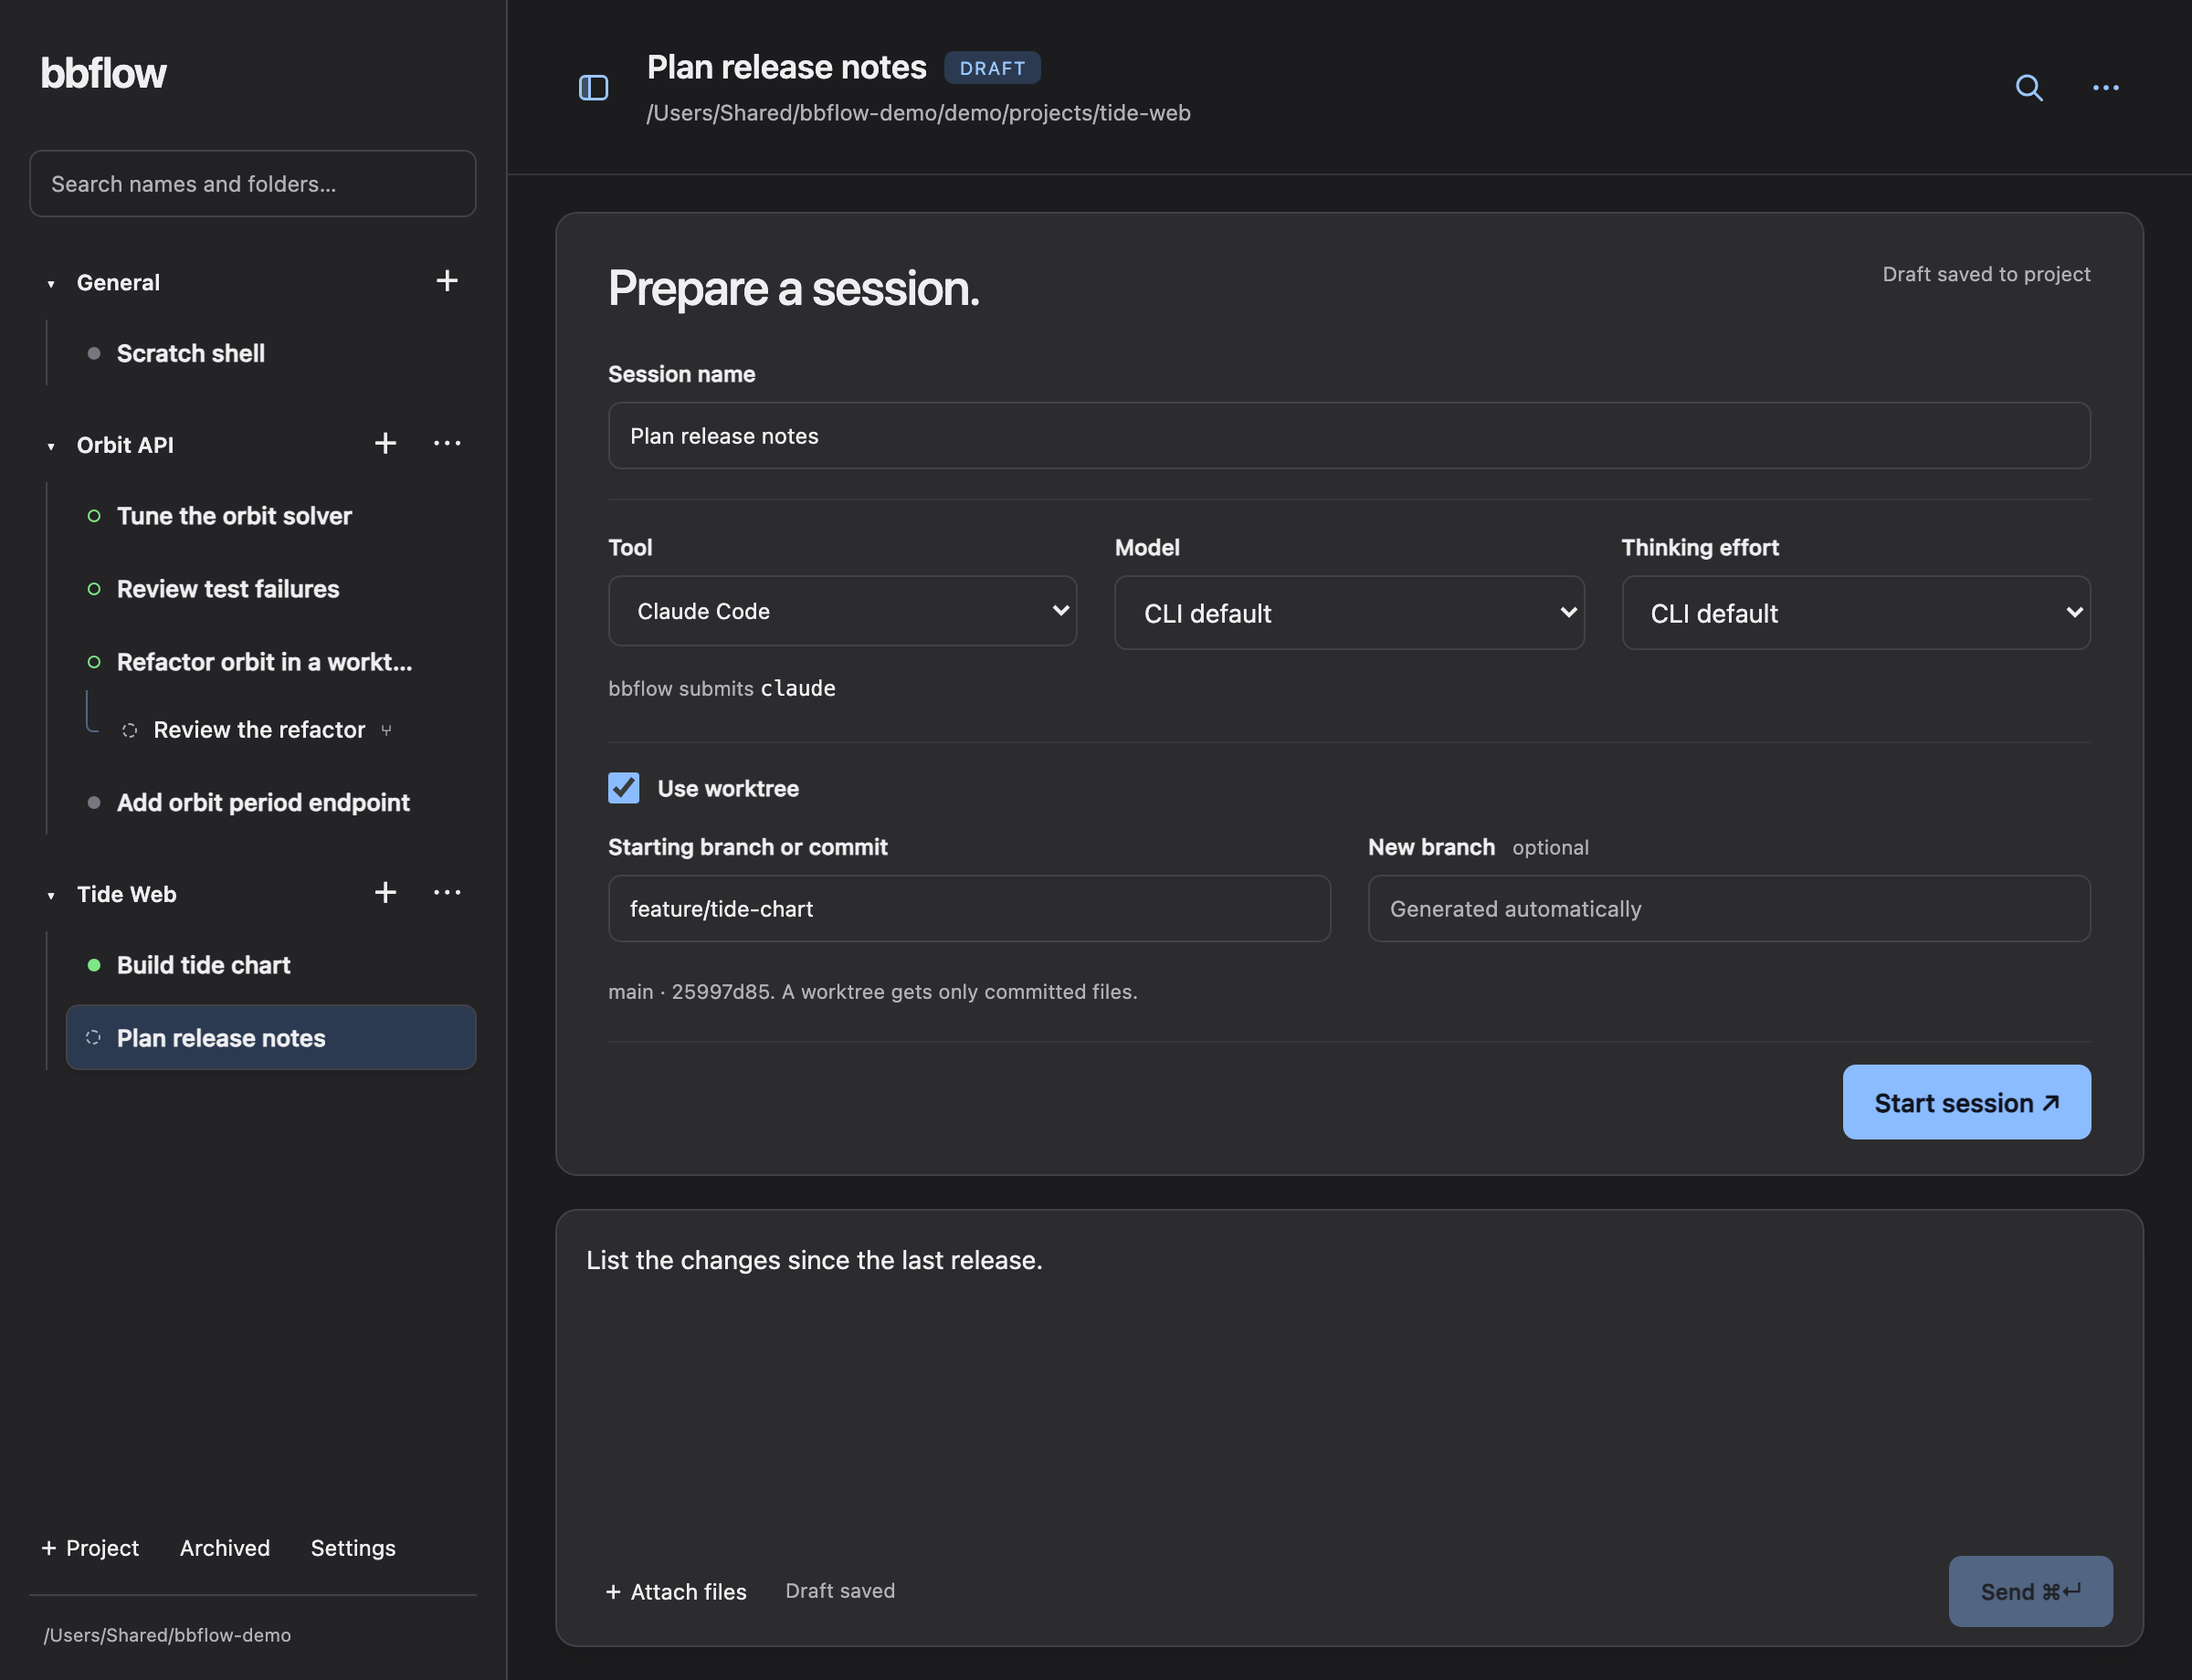
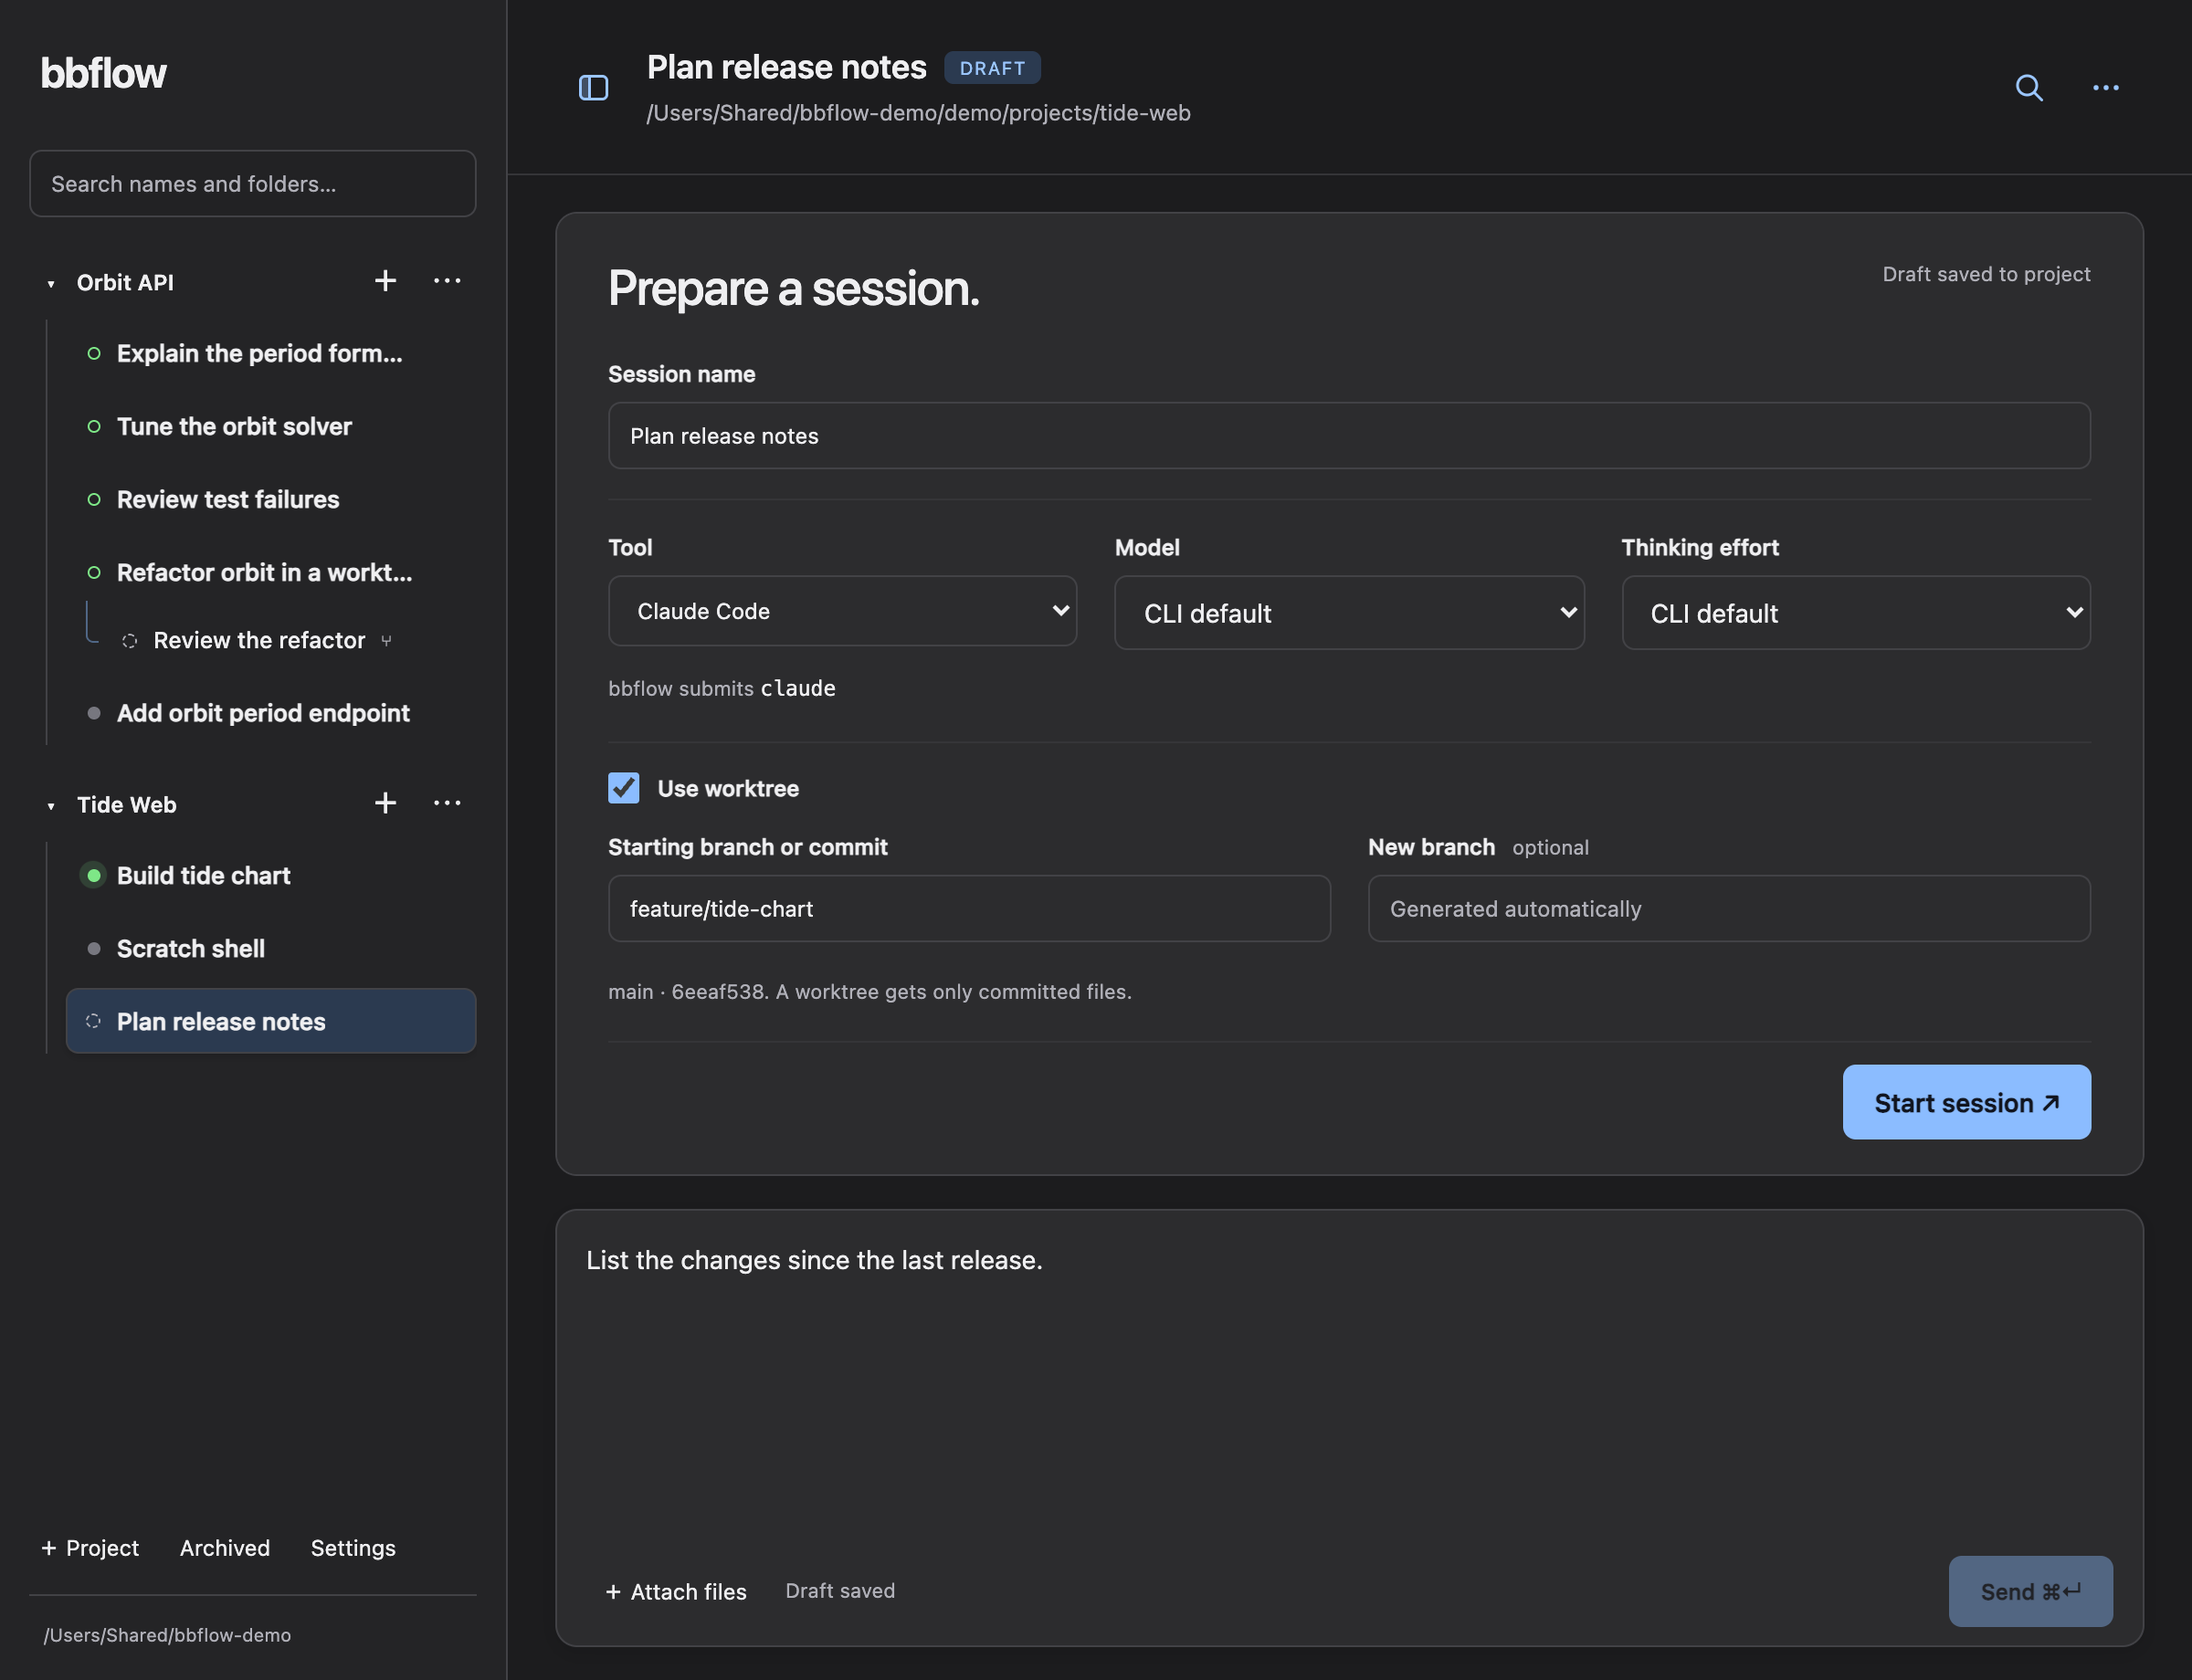
Capture the README and guide screenshots again without General
The demo has two projects now, with Scratch shell under Tide Web. The
session screenshot also shows the toolbar without Stop session, which
moved into the More actions menu.

diff --git a/README.md b/README.md
@@ -10,7 +10,7 @@ Codex and Claude Code, in one browser workspace. Sessions continue after you clo
 tab. bbflow records each session, so you can search it or continue it with a different
 agent.
 
-<img src="docs/images/session.png" alt="The bbflow web UI. The sidebar lists three projects and their sessions. The main area shows the terminal of one session, with the message editor below it.">
+<img src="docs/images/session.png" alt="The bbflow web UI. The sidebar lists two projects and their sessions. The main area shows the terminal of one session, with the message editor below it.">
 
 ## What you can do
 
